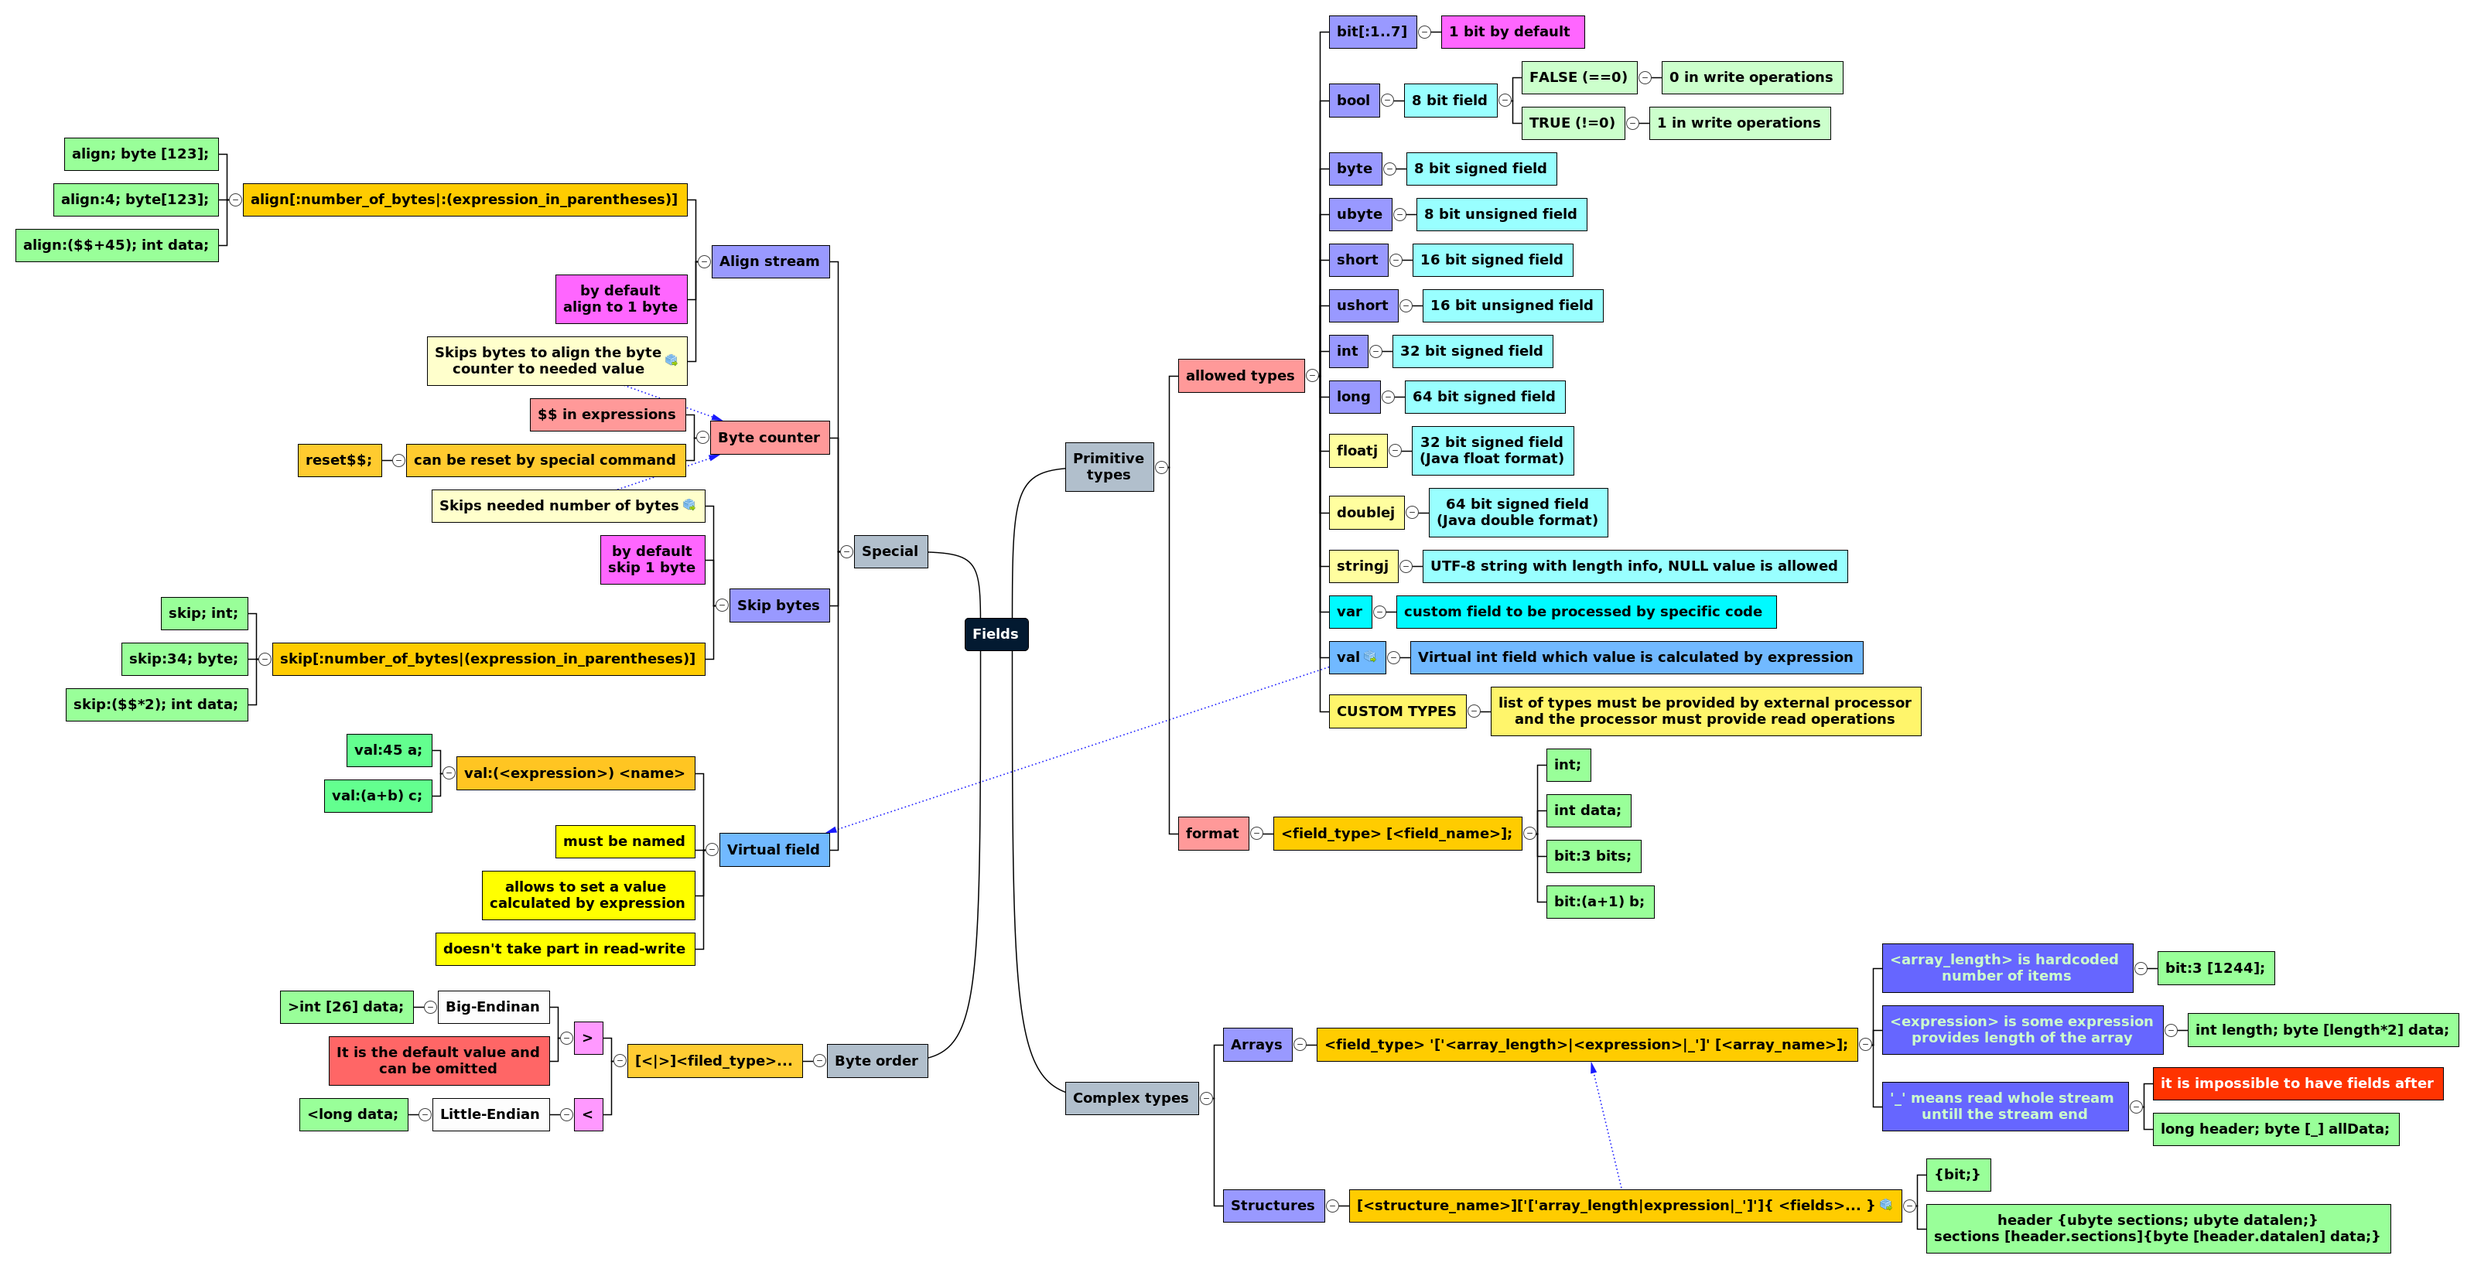
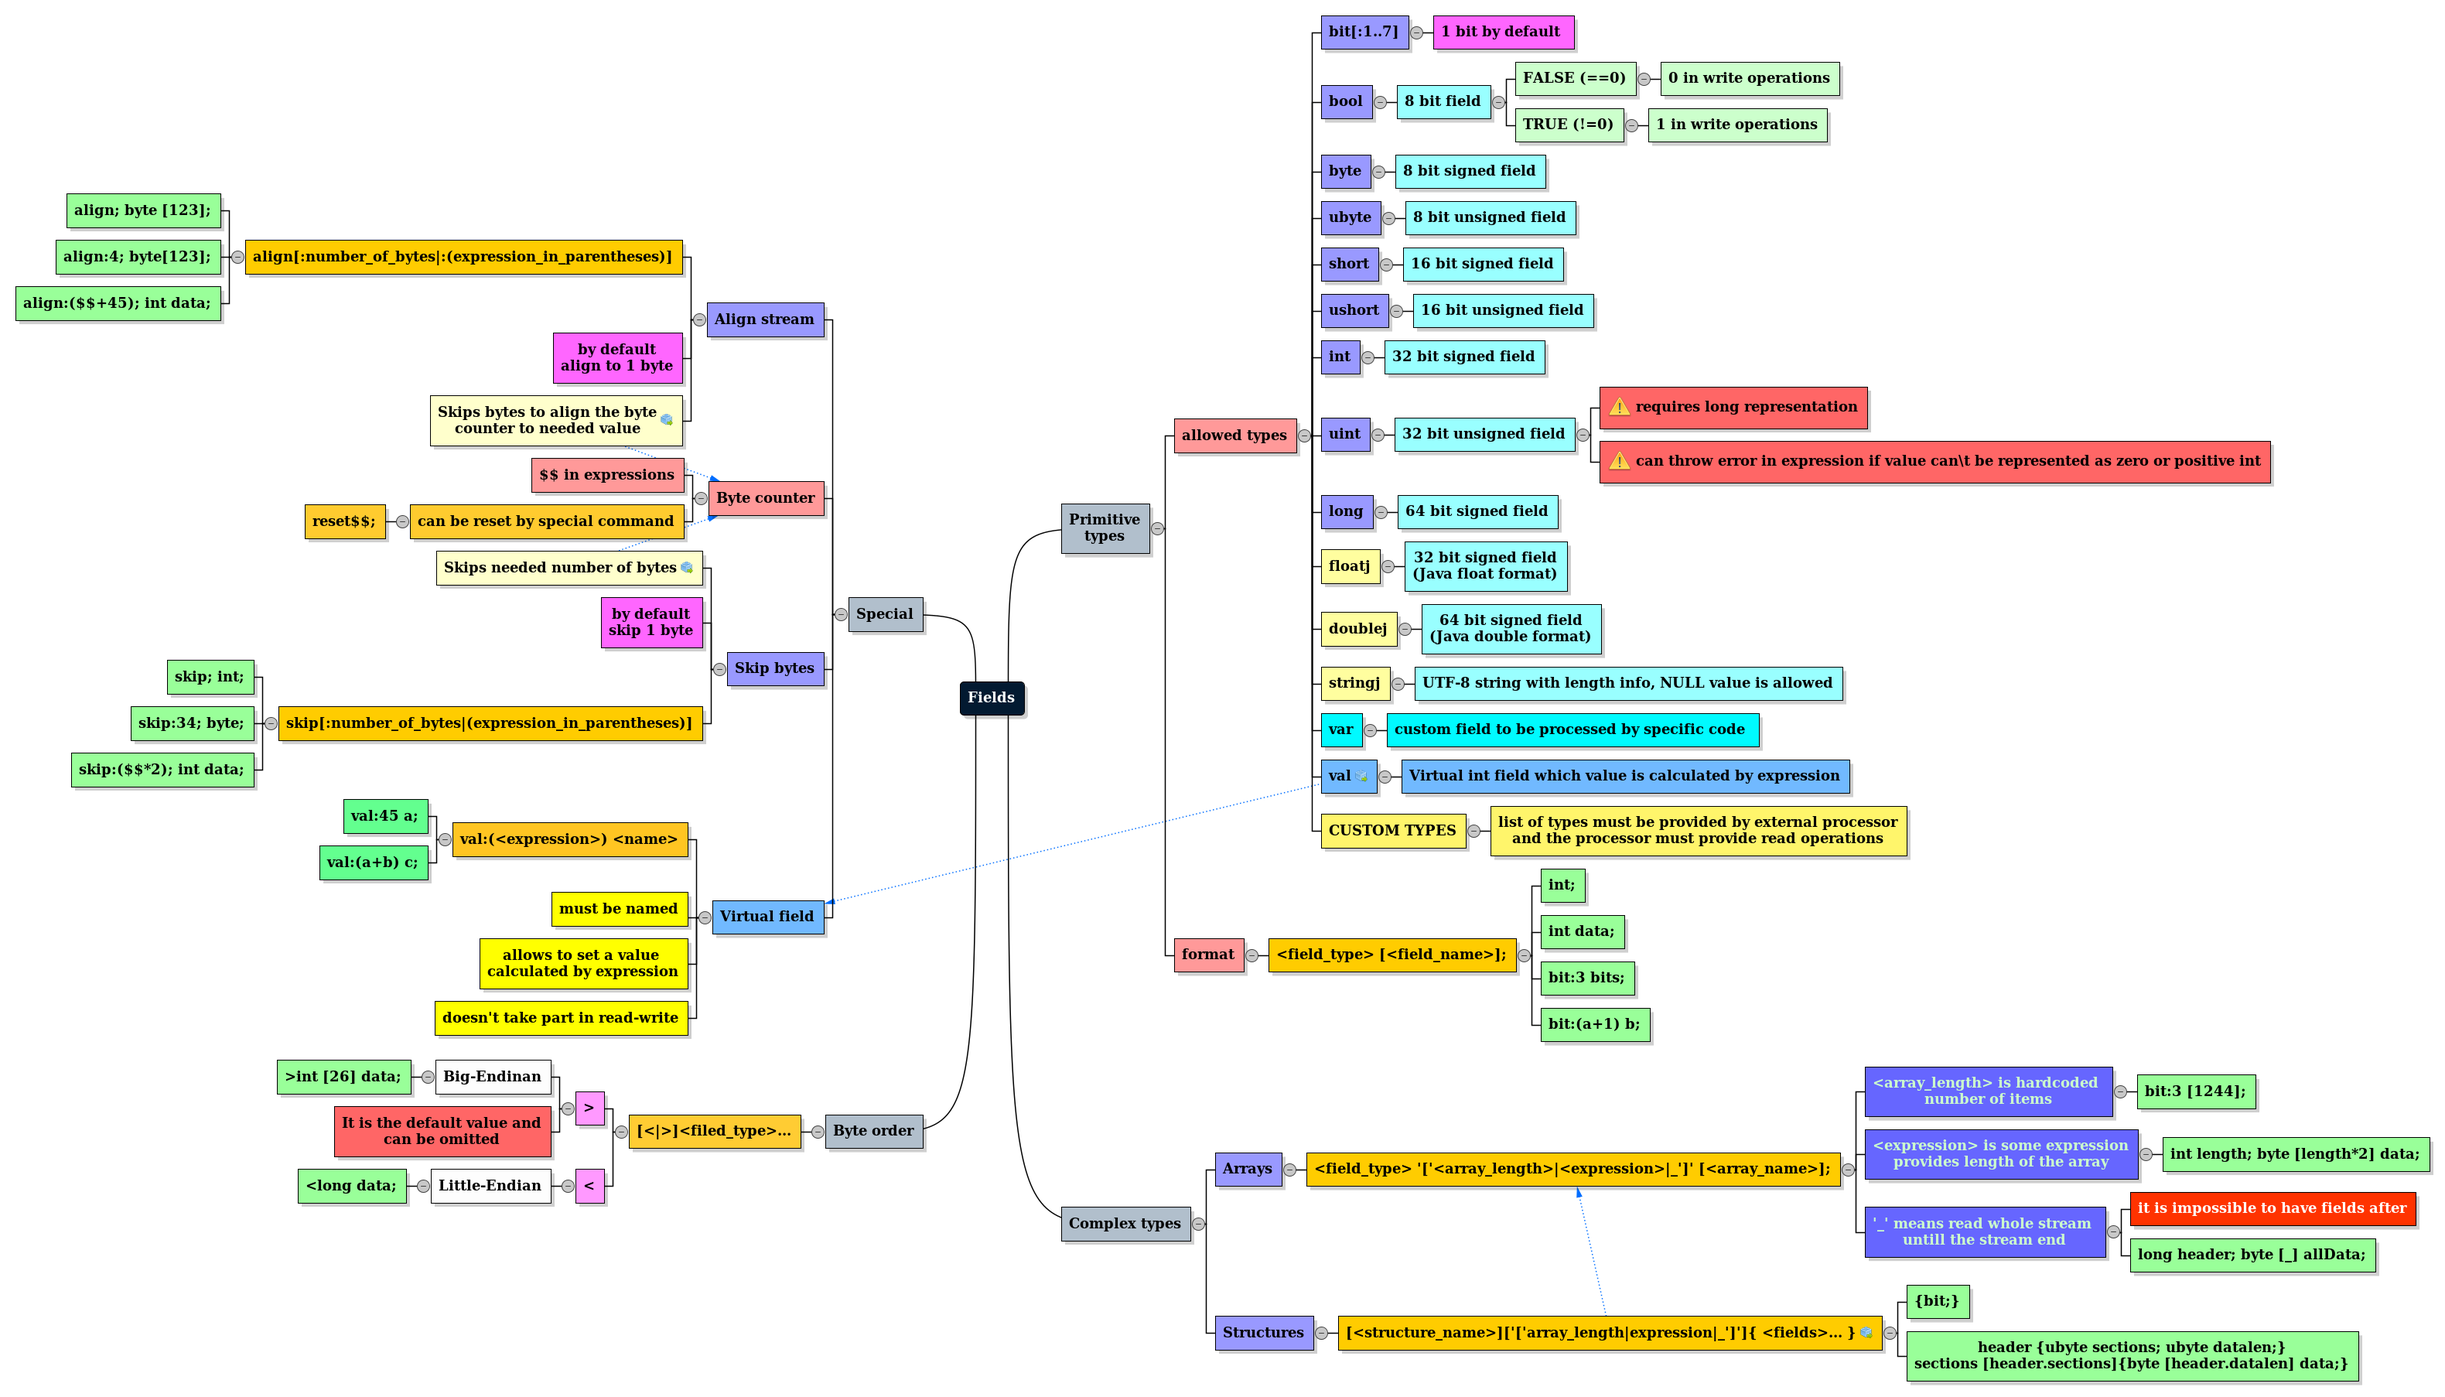
release 2.0.4

diff --git a/jbbp/src/main/java/com/igormaznitsa/jbbp/model/JBBPNumericField.java b/jbbp/src/main/java/com/igormaznitsa/jbbp/model/JBBPNumericField.java
@@ -16,6 +16,8 @@
 
 package com.igormaznitsa.jbbp.model;
 
+import com.igormaznitsa.jbbp.exceptions.JBBPNumericFieldValueConversionException;
+
 /**
  * The Interface describes a field which content can be represented as a numeric value.
  *
@@ -26,7 +28,7 @@ public interface JBBPNumericField extends JBBPInvertableBitOrder, JBBPNamedField
    * Get the field value as integer.
    *
    * @return the field value as integer
-   * @throws IllegalStateException can be thrown if impossible to represent saved value as int
+   * @throws JBBPNumericFieldValueConversionException can be thrown if impossible to represent saved value as int
    */
   int getAsInt();
 
@@ -34,7 +36,7 @@ public interface JBBPNumericField extends JBBPInvertableBitOrder, JBBPNamedField
    * Get the field value as double.
    *
    * @return the field value as double
-   * @throws IllegalStateException can be thrown if impossible to represent saved value as double
+   * @throws JBBPNumericFieldValueConversionException can be thrown if impossible to represent saved value as double
    * @since 1.4.0
    */
   double getAsDouble();
@@ -43,7 +45,7 @@ public interface JBBPNumericField extends JBBPInvertableBitOrder, JBBPNamedField
    * Get the field value as float.
    *
    * @return the field value as float
-   * @throws IllegalStateException can be thrown if impossible to represent saved value as float
+   * @throws JBBPNumericFieldValueConversionException can be thrown if impossible to represent saved value as float
    * @since 1.4.0
    */
   float getAsFloat();
@@ -52,7 +54,7 @@ public interface JBBPNumericField extends JBBPInvertableBitOrder, JBBPNamedField
    * Get the field value as long
    *
    * @return the field value as long
-   * @throws IllegalStateException can be thrown if impossible to represent saved value as long
+   * @throws JBBPNumericFieldValueConversionException can be thrown if impossible to represent saved value as long
    */
   long getAsLong();
 
@@ -60,7 +62,7 @@ public interface JBBPNumericField extends JBBPInvertableBitOrder, JBBPNamedField
    * Get the field value as boolean, usually if the value is 0 then false, true otherwise.
    *
    * @return the field value as boolean
-   * @throws IllegalStateException can be thrown if impossible to represent saved value as boolean
+   * @throws JBBPNumericFieldValueConversionException can be thrown if impossible to represent saved value as boolean
    */
   boolean getAsBool();
 

diff --git a/jbbp/src/main/java/com/igormaznitsa/jbbp/exceptions/JBBPNumericFieldValueConversionException.java b/jbbp/src/main/java/com/igormaznitsa/jbbp/exceptions/JBBPNumericFieldValueConversionException.java
@@ -1,0 +1,67 @@
+package com.igormaznitsa.jbbp.exceptions;
+
+import com.igormaznitsa.jbbp.model.JBBPNumericField;
+
+/**
+ * Exception to indicate error during value conversion process.
+ *
+ * @since 2.0.4
+ */
+public class JBBPNumericFieldValueConversionException extends JBBPException {
+
+  private final JBBPNumericField source;
+
+  /**
+   * Get source field.
+   *
+   * @return source field for exception, can be null
+   */
+  public JBBPNumericField getSource() {
+    return this.source;
+  }
+
+  /**
+   * Constructor to provide source field and message.
+   *
+   * @param source  source field. can be null
+   * @param message message, can be null
+   */
+  public JBBPNumericFieldValueConversionException(final JBBPNumericField source,
+                                                  final String message) {
+    this(source, message, null);
+  }
+
+  /**
+   * Constructor to provide source field, message and cause error.
+   *
+   * @param source  source field. can be null
+   * @param message message, can be null
+   * @param cause   cause error, can be null
+   */
+  public JBBPNumericFieldValueConversionException(final JBBPNumericField source,
+                                                  final String message, final Throwable cause) {
+    super(message, cause);
+    this.source = source;
+  }
+
+  @Override
+  public String toString() {
+    final StringBuilder result = new StringBuilder(getClass().getName());
+    final String message = this.getLocalizedMessage();
+    final JBBPNumericField source = this.getSource();
+
+    result.append('(');
+    result
+        .append("message=").append(message).append(',')
+        .append("source=").append(source);
+
+    final Throwable cause = this.getCause();
+    if (cause != null) {
+      result.append(",cause=").append(cause.getClass().getName());
+    }
+
+    result.append(')');
+
+    return result.toString();
+  }
+}

diff --git a/jbbp/src/test/java/com/igormaznitsa/jbbp/io/JBBPBitInputStreamTest.java b/jbbp/src/test/java/com/igormaznitsa/jbbp/io/JBBPBitInputStreamTest.java
@@ -18,6 +18,7 @@ package com.igormaznitsa.jbbp.io;
 
 import static org.junit.jupiter.api.Assertions.assertArrayEquals;
 import static org.junit.jupiter.api.Assertions.assertEquals;
+import static org.junit.jupiter.api.Assertions.assertNull;
 import static org.junit.jupiter.api.Assertions.assertThrows;
 import static org.junit.jupiter.api.Assertions.assertTrue;
 import static org.junit.jupiter.api.Assertions.fail;
@@ -175,7 +176,7 @@ public class JBBPBitInputStreamTest {
 
   @Test
   public void testReadString_BigEndan_Null() throws Exception {
-    assertEquals(null, asInputStream(0xFF).readString(JBBPByteOrder.BIG_ENDIAN));
+    assertNull(asInputStream(0xFF).readString(JBBPByteOrder.BIG_ENDIAN));
   }
 
   @Test
@@ -196,7 +197,7 @@ public class JBBPBitInputStreamTest {
 
   @Test
   public void testReadString_LittleEndan_Null() throws Exception {
-    assertEquals(null, asInputStream(0xFF).readString(JBBPByteOrder.LITTLE_ENDIAN));
+    assertNull(asInputStream(0xFF).readString(JBBPByteOrder.LITTLE_ENDIAN));
   }
 
   @Test
@@ -1264,7 +1265,7 @@ public class JBBPBitInputStreamTest {
 
     assertEquals(testarray.length, read.length);
     for (int i = 0; i < read.length; i++) {
-      assertTrue(read[i] == (testarray[i] != 0));
+      assertEquals(read[i], (testarray[i] != 0));
     }
   }
 

diff --git a/jbbp/src/test/java/com/igormaznitsa/jbbp/JBBPParserTest.java b/jbbp/src/test/java/com/igormaznitsa/jbbp/JBBPParserTest.java
@@ -28,6 +28,7 @@ import static org.junit.jupiter.api.Assertions.fail;
 
 import com.igormaznitsa.jbbp.compiler.JBBPNamedFieldInfo;
 import com.igormaznitsa.jbbp.exceptions.JBBPCompilationException;
+import com.igormaznitsa.jbbp.exceptions.JBBPNumericFieldValueConversionException;
 import com.igormaznitsa.jbbp.exceptions.JBBPParsingException;
 import com.igormaznitsa.jbbp.exceptions.JBBPTooManyFieldsFoundException;
 import com.igormaznitsa.jbbp.io.JBBPBitInputStream;
@@ -2487,7 +2488,10 @@ public class JBBPParserTest {
 
     assertEquals(2, length.getAsInt());
     assertEquals(2, array.size());
-    assertThrows(IllegalStateException.class, () -> array.getElementAt(0).getAsInt());
+
+    JBBPNumericFieldValueConversionException exception = assertThrows(JBBPNumericFieldValueConversionException.class, () -> array.getElementAt(0).getAsInt());
+    assertTrue(exception.toString().contains("0xFFF0E012"));
+
     assertEquals(0xFFF0E012L, array.getElementAt(0).getAsLong());
     assertEquals(0x01020304, array.getElementAt(1).getAsInt());
   }

diff --git a/jbbp/src/test/java/com/igormaznitsa/jbbp/model/JBBPFieldArrayBooleanTest.java b/jbbp/src/test/java/com/igormaznitsa/jbbp/model/JBBPFieldArrayBooleanTest.java
@@ -51,7 +51,7 @@ public class JBBPFieldArrayBooleanTest {
     final boolean[] array = test.getArray();
     assertEquals(etalon.length, array.length);
     for (int i = 0; i < etalon.length; i++) {
-      assertTrue(etalon[i] == array[i]);
+      assertEquals(etalon[i], array[i]);
     }
   }
 
@@ -96,7 +96,7 @@ public class JBBPFieldArrayBooleanTest {
     final boolean[] etalon = new boolean[] {true, false, true, true, false};
     int index = 0;
     for (final JBBPFieldBoolean f : test) {
-      assertTrue(etalon[index++] == f.getAsBool());
+      assertEquals(etalon[index++], f.getAsBool());
     }
   }
 
@@ -105,7 +105,7 @@ public class JBBPFieldArrayBooleanTest {
     final boolean[] noninverted = (boolean[]) test.getValueArrayAsObject(false);
     assertEquals(array.length, noninverted.length);
     for (int i = 0; i < array.length; i++) {
-      assertTrue(array[i] == noninverted[i]);
+      assertEquals(array[i], noninverted[i]);
     }
 
     final boolean[] inverted = (boolean[]) test.getValueArrayAsObject(true);

diff --git a/jbbp/src/test/java/com/igormaznitsa/jbbp/mapper/JBBPMapperTest.java b/jbbp/src/test/java/com/igormaznitsa/jbbp/mapper/JBBPMapperTest.java
@@ -31,6 +31,7 @@ import static org.junit.jupiter.api.Assertions.fail;
 import com.igormaznitsa.jbbp.JBBPParser;
 import com.igormaznitsa.jbbp.TestUtils;
 import com.igormaznitsa.jbbp.exceptions.JBBPMapperException;
+import com.igormaznitsa.jbbp.exceptions.JBBPNumericFieldValueConversionException;
 import com.igormaznitsa.jbbp.io.JBBPBitNumber;
 import com.igormaznitsa.jbbp.io.JBBPOut;
 import com.igormaznitsa.jbbp.model.JBBPFieldInt;
@@ -295,7 +296,7 @@ public class JBBPMapperTest {
       @Bin(type = BinType.UINT)
       int a;
     }
-    assertThrows(IllegalStateException.class,
+    assertThrows(JBBPNumericFieldValueConversionException.class,
         () -> {
           JBBPParser.prepare("uint a;")
               .parse(new byte[] {(byte) 0xFF, (byte) 0xA0, (byte) 0xB0, (byte) 0xC0})

diff --git a/jbbp-plugins/jbbp-gradle/src/main/java/com/igormaznitsa/jbbp/plugin/gradle/JBBPPlugin.java b/jbbp-plugins/jbbp-gradle/src/main/java/com/igormaznitsa/jbbp/plugin/gradle/JBBPPlugin.java
@@ -9,7 +9,13 @@ public class JBBPPlugin implements Plugin<Project> {
   @Override
   public void apply(@Nonnull final Project project) {
     project.getExtensions().create(JBBPExtension.EXT_NAME, JBBPExtension.class, project);
-    project.getTasks().create("jbbpGenerate", JBBPGenerateTask.class);
-    project.getTasks().create("jbbpClean", JBBPCleanTask.class);
+
+    JBBPExtension extension = project.getExtensions().create(JBBPExtension.class, JBBPExtension.EXT_NAME, JBBPExtension.class, project);
+    project.getTasks().register("jbbpGenerate", JBBPGenerateTask.class, task -> {
+      task.setDescription("Generate JBBP stuff.");
+    });
+    project.getTasks().register("jbbpClean", JBBPCleanTask.class, task -> {
+      task.setDescription("Clean all JBBP stuff.");
+    });
   }
 }

diff --git a/jbbp/src/test/java/com/igormaznitsa/jbbp/io/JBBPBitOutputStreamTest.java b/jbbp/src/test/java/com/igormaznitsa/jbbp/io/JBBPBitOutputStreamTest.java
@@ -55,10 +55,10 @@ public class JBBPBitOutputStreamTest {
 
     assertEquals(0L, out.getCounter());
     out.write(1);
-    assertTrue(out.getBufferedBitsNumber() == 0);
+    assertEquals(0, out.getBufferedBitsNumber());
     assertEquals(1L, out.getCounter());
     out.resetCounter();
-    assertTrue(out.getBufferedBitsNumber() == 0);
+    assertEquals(0, out.getBufferedBitsNumber());
     assertEquals(0L, out.getCounter());
   }
 
@@ -73,7 +73,7 @@ public class JBBPBitOutputStreamTest {
     assertTrue(out.getBufferedBitsNumber() > 0);
     assertEquals(1L, out.getCounter());
     out.resetCounter();
-    assertTrue(out.getBufferedBitsNumber() == 0);
+    assertEquals(0, out.getBufferedBitsNumber());
     assertEquals(0L, out.getCounter());
     out.write(2);
     out.close();

diff --git a/jbbp/src/test/java/com/igormaznitsa/jbbp/model/JBBPFieldUIntTest.java b/jbbp/src/test/java/com/igormaznitsa/jbbp/model/JBBPFieldUIntTest.java
@@ -22,6 +22,7 @@ import static org.junit.jupiter.api.Assertions.assertThrows;
 import static org.junit.jupiter.api.Assertions.assertTrue;
 
 import com.igormaznitsa.jbbp.compiler.JBBPNamedFieldInfo;
+import com.igormaznitsa.jbbp.exceptions.JBBPNumericFieldValueConversionException;
 import org.junit.jupiter.api.Test;
 
 public class JBBPFieldUIntTest {
@@ -53,7 +54,7 @@ public class JBBPFieldUIntTest {
     assertEquals(234324,
         new JBBPFieldUInt(new JBBPNamedFieldInfo("test.field", "field", 123), 234324).getAsInt());
 
-    assertThrows(IllegalStateException.class, () ->
+    assertThrows(JBBPNumericFieldValueConversionException.class, () ->
         new JBBPFieldUInt(new JBBPNamedFieldInfo("test.field", "field", 123), -234324).getAsInt());
   }
 

diff --git a/jbbp/src/main/java/com/igormaznitsa/jbbp/model/JBBPFieldUInt.java b/jbbp/src/main/java/com/igormaznitsa/jbbp/model/JBBPFieldUInt.java
@@ -17,6 +17,7 @@
 package com.igormaznitsa.jbbp.model;
 
 import com.igormaznitsa.jbbp.compiler.JBBPNamedFieldInfo;
+import com.igormaznitsa.jbbp.exceptions.JBBPNumericFieldValueConversionException;
 import java.util.Locale;
 
 /**
@@ -48,9 +49,9 @@ public final strictfp class JBBPFieldUInt extends JBBPAbstractField implements J
     if (this.value >= 0) {
       return this.value;
     } else {
-      throw new IllegalStateException("can't convert UINT value into signed INT: 0x" +
+      throw new JBBPNumericFieldValueConversionException(this, "UINT 0x" +
           (Long.toHexString(this.value & 0xFFFFFFFFL).toUpperCase(
-              Locale.ENGLISH)));
+              Locale.ENGLISH)) + " can't be represented as INT");
     }
   }
 

diff --git a/jbbp/src/test/java/com/igormaznitsa/jbbp/it/ConvertToJSONTest.java b/jbbp/src/test/java/com/igormaznitsa/jbbp/it/ConvertToJSONTest.java
@@ -16,6 +16,7 @@
 
 package com.igormaznitsa.jbbp.it;
 
+import static org.junit.jupiter.api.Assertions.assertEquals;
 import static org.junit.jupiter.api.Assertions.assertTrue;
 
 import com.igormaznitsa.jbbp.JBBPParser;
@@ -146,7 +147,7 @@ public class ConvertToJSONTest extends AbstractParserIntegrationTest {
 
       final JSONObject json = convertToJSon(null, pngParser.parse(pngStream));
       final String jsonText = json.toJSONString(JSONStyle.MAX_COMPRESS);
-      assertTrue(jsonText.length() == 13917);
+      assertEquals(13917, jsonText.length());
       assertTrue(jsonText.contains("header:"));
       assertTrue(jsonText.contains("chunk:{"));
       assertTrue(jsonText.contains("length:"));

diff --git a/jbbp/src/test/java/com/igormaznitsa/jbbp/utils/JBBPIntCounterTest.java b/jbbp/src/test/java/com/igormaznitsa/jbbp/utils/JBBPIntCounterTest.java
@@ -87,13 +87,13 @@ public class JBBPIntCounterTest {
   @Test
   public void testFloatValue() {
     final JBBPIntCounter counter = new JBBPIntCounter(5);
-    assertTrue(Float.compare(5.0f, counter.floatValue()) == 0);
+    assertEquals(0, Float.compare(5.0f, counter.floatValue()));
   }
 
   @Test
   public void testDoubleValue() {
     final JBBPIntCounter counter = new JBBPIntCounter(5);
-    assertTrue(Double.compare(5.0d, counter.doubleValue()) == 0);
+    assertEquals(0, Double.compare(5.0d, counter.doubleValue()));
   }
 
   @Test
